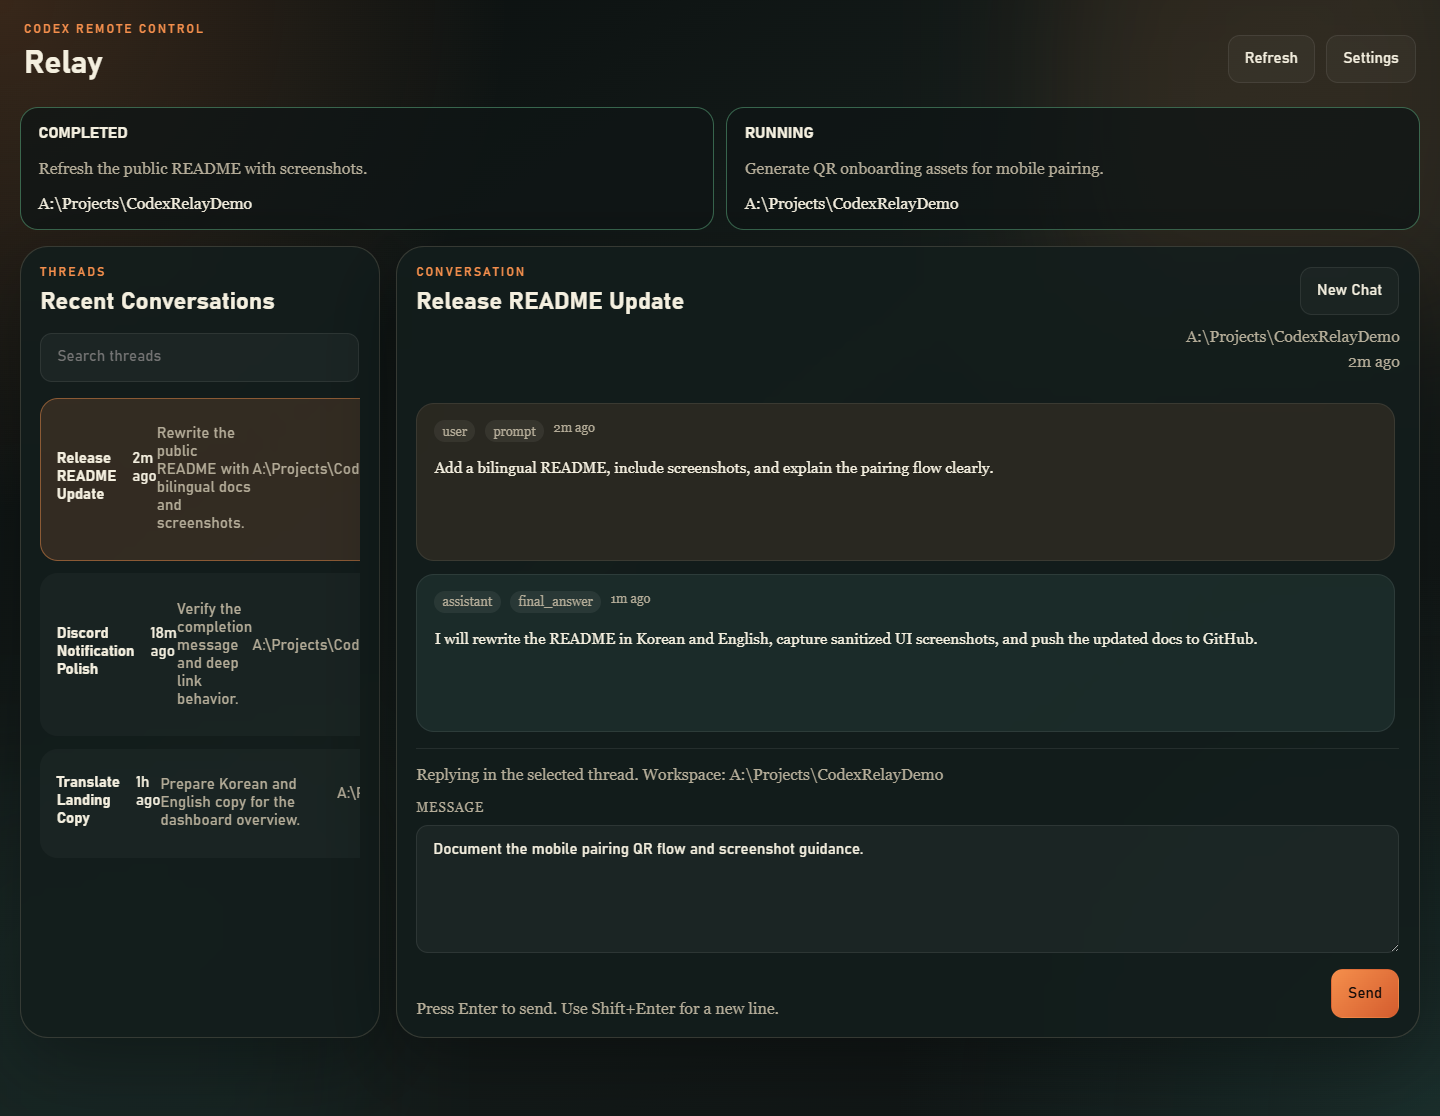
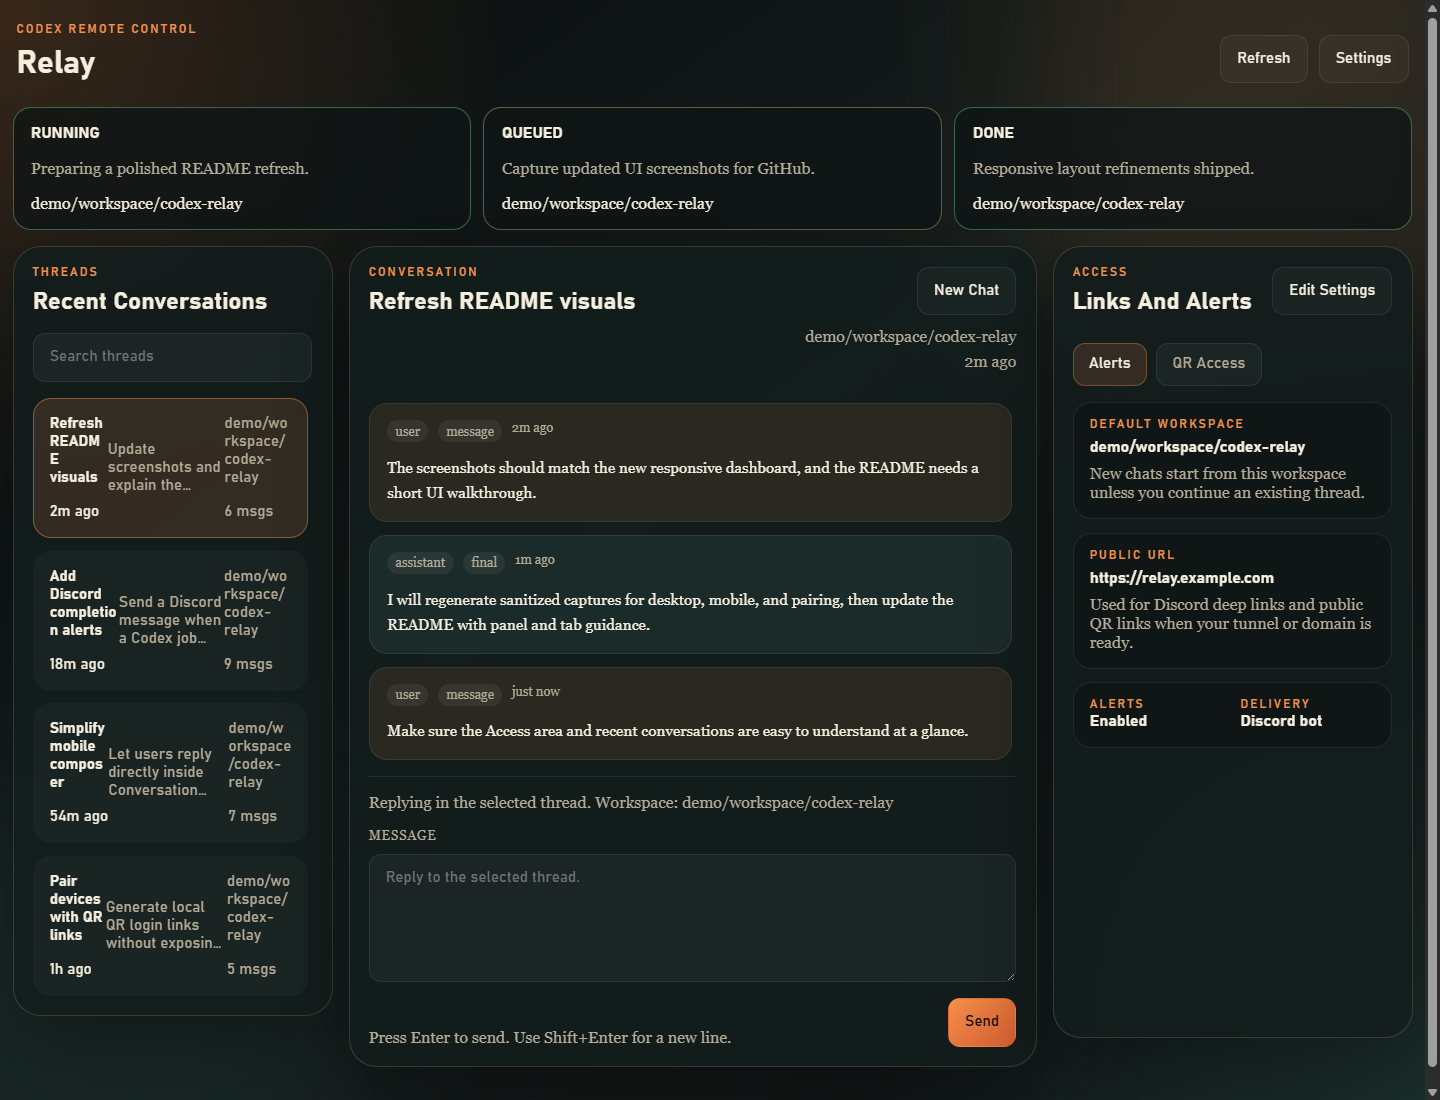
Refresh screenshots and UI guide

diff --git a/README.md b/README.md
@@ -14,17 +14,35 @@ English: The screenshots below are sanitized demo captures based on the real UI.
 
 ![Codex Relay dashboard overview](docs/images/dashboard-overview.png)
 
-한국어: 왼쪽에는 최근 스레드 목록이, 오른쪽에는 선택된 대화와 즉시 입력 가능한 `Conversation` 입력창이 표시됩니다.
+한국어: 데스크톱에서는 `Threads`, `Conversation`, `Access` 3패널이 동시에 보입니다. 스레드 목록, 현재 대화, 알림/접속 요약을 한 화면에서 함께 볼 수 있습니다.
 
-English: The left panel shows recent threads, while the right panel shows the selected conversation and the inline `Conversation` composer.
+English: On desktop, the UI shows `Threads`, `Conversation`, and `Access` side by side so you can inspect history, send the next message, and check link/alert status at once.
+
+### Mobile Access Tabs / 모바일 접근 탭
+
+![Codex Relay mobile access tabs](docs/images/mobile-access.png)
+
+한국어: 모바일에서는 `Threads / Conversation / Access` 탭으로 좁은 화면을 나눠 씁니다. `Access > QR Access` 탭에서 QR 로그인 링크와 토큰 복사를 바로 열 수 있습니다.
+
+English: On mobile, `Threads / Conversation / Access` tabs split the dashboard into focused views. `Access > QR Access` exposes QR-ready links and quick token sharing.
 
 ### Local Pairing Page / 로컬 페어링 페이지
 
 ![Codex Relay local pairing page](docs/images/pairing-overview.png)
 
-한국어: `http://localhost:3210/pair`에서는 현재 대시보드 토큰 확인, 토큰 재발급, 토큰 포함 링크 복사, QR 코드 로그인 준비를 한 번에 처리할 수 있습니다.
+한국어: `http://localhost:3210/pair`는 로컬 PC 전용 페어링 화면입니다. 현재 대시보드 토큰 확인, 토큰 재발급, 토큰 포함 링크 복사, QR 코드 로그인을 한 번에 처리할 수 있습니다.
 
-English: `http://localhost:3210/pair` provides the current dashboard token, token regeneration, tokenized copy links, and QR-based login setup in one place.
+English: `http://localhost:3210/pair` is the host-only pairing page. It bundles token viewing, token rotation, tokenized links, and QR-based login into one screen.
+
+## UI Tour / UI 둘러보기
+
+| Area | 한국어 설명 | English Description |
+| --- | --- | --- |
+| `Threads` | 최근 스레드를 카드형 목록으로 보여 주며, 제목·요약·워크스페이스·메시지 수를 빠르게 훑어볼 수 있습니다. | Shows recent threads as cards with title, summary, workspace, and message count for quick scanning. |
+| `Conversation` | 선택한 스레드의 보이는 대화만 표시하고, 같은 패널 아래에서 바로 다음 메시지를 보낼 수 있습니다. | Shows only visible conversation history for the selected thread and keeps the next-message composer in the same panel. |
+| `Access` | 기본 워크스페이스, 공개 URL, Discord 알림 상태를 요약하고 `Alerts / QR Access` 탭으로 접속 도구를 나눠 보여줍니다. | Summarizes the default workspace, public URL, and Discord alert state, then splits access tools into `Alerts / QR Access` tabs. |
+| `QR Access` | 로컬 브라우저에서는 토큰 복사, 재발급, QR 링크 공유를 바로 처리하고, 원격 브라우저에서는 로컬 PC에서 열라는 안내를 보여줍니다. | On the host browser it exposes token copy, rotation, and QR link sharing; on remote browsers it shows a host-only notice. |
+| `Mobile Tabs` | 좁은 화면에서는 `Threads / Conversation / Access` 탭으로 섹션을 전환해 필요한 부분만 크게 봅니다. | On small screens, `Threads / Conversation / Access` tabs switch between focused sections instead of squeezing everything into one column. |
 
 ## Why This Exists / 이 프로젝트가 하는 일
 
